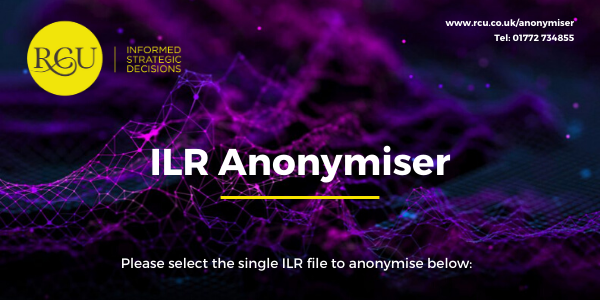
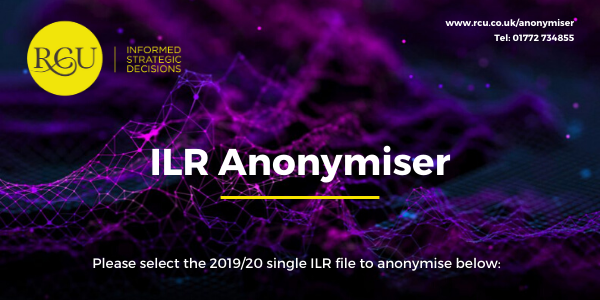
Visual and version n Updates

Changed region(s): [[0.15, 0.84, 0.84, 0.9]]

diff --git a/RCUTool.py b/RCUTool.py
@@ -336,15 +336,17 @@ if __name__ == '__main__':
     spaceSaver = Label(root, text="", bd=1, bg='black', fg='white')
     spaceSaver2 = Label(root, text="", bd=1, bg='black', fg='white')
     websiteLabel = Label(root, text="About ILR \n Anonymiser", fg="Yellow", bg='black', cursor="hand2")
+    versionNumber = Label(root, text="V1.00",  fg="Yellow", bg='black', font=('', 8))
     websiteLabel.bind("<Button-1>", lambda e: callback("https://www.rcu.co.uk/anonymiser/"))
-    afterButton1 = Button(root, text="            Close           ", fg="Black", bg="gold",
+    afterButton1 = Button(root, text="            Close           ", fg="Black", bg="yellow",
                      command=closeProg, padx=1, pady=1)
     afterButton2 = Button(root, text="          Restart           ", command=restart_program, padx=1, pady=1,
-                     bg='gold')
+                     bg='yellow')
 
     #Packing Frames
     mainimg.pack()
     spaceSaver.pack()
+    versionNumber.place(x=0, y=360)
     Button1.pack()
     spaceSaver2.pack()
     websiteLabel.place(x=525,y=342.5)
